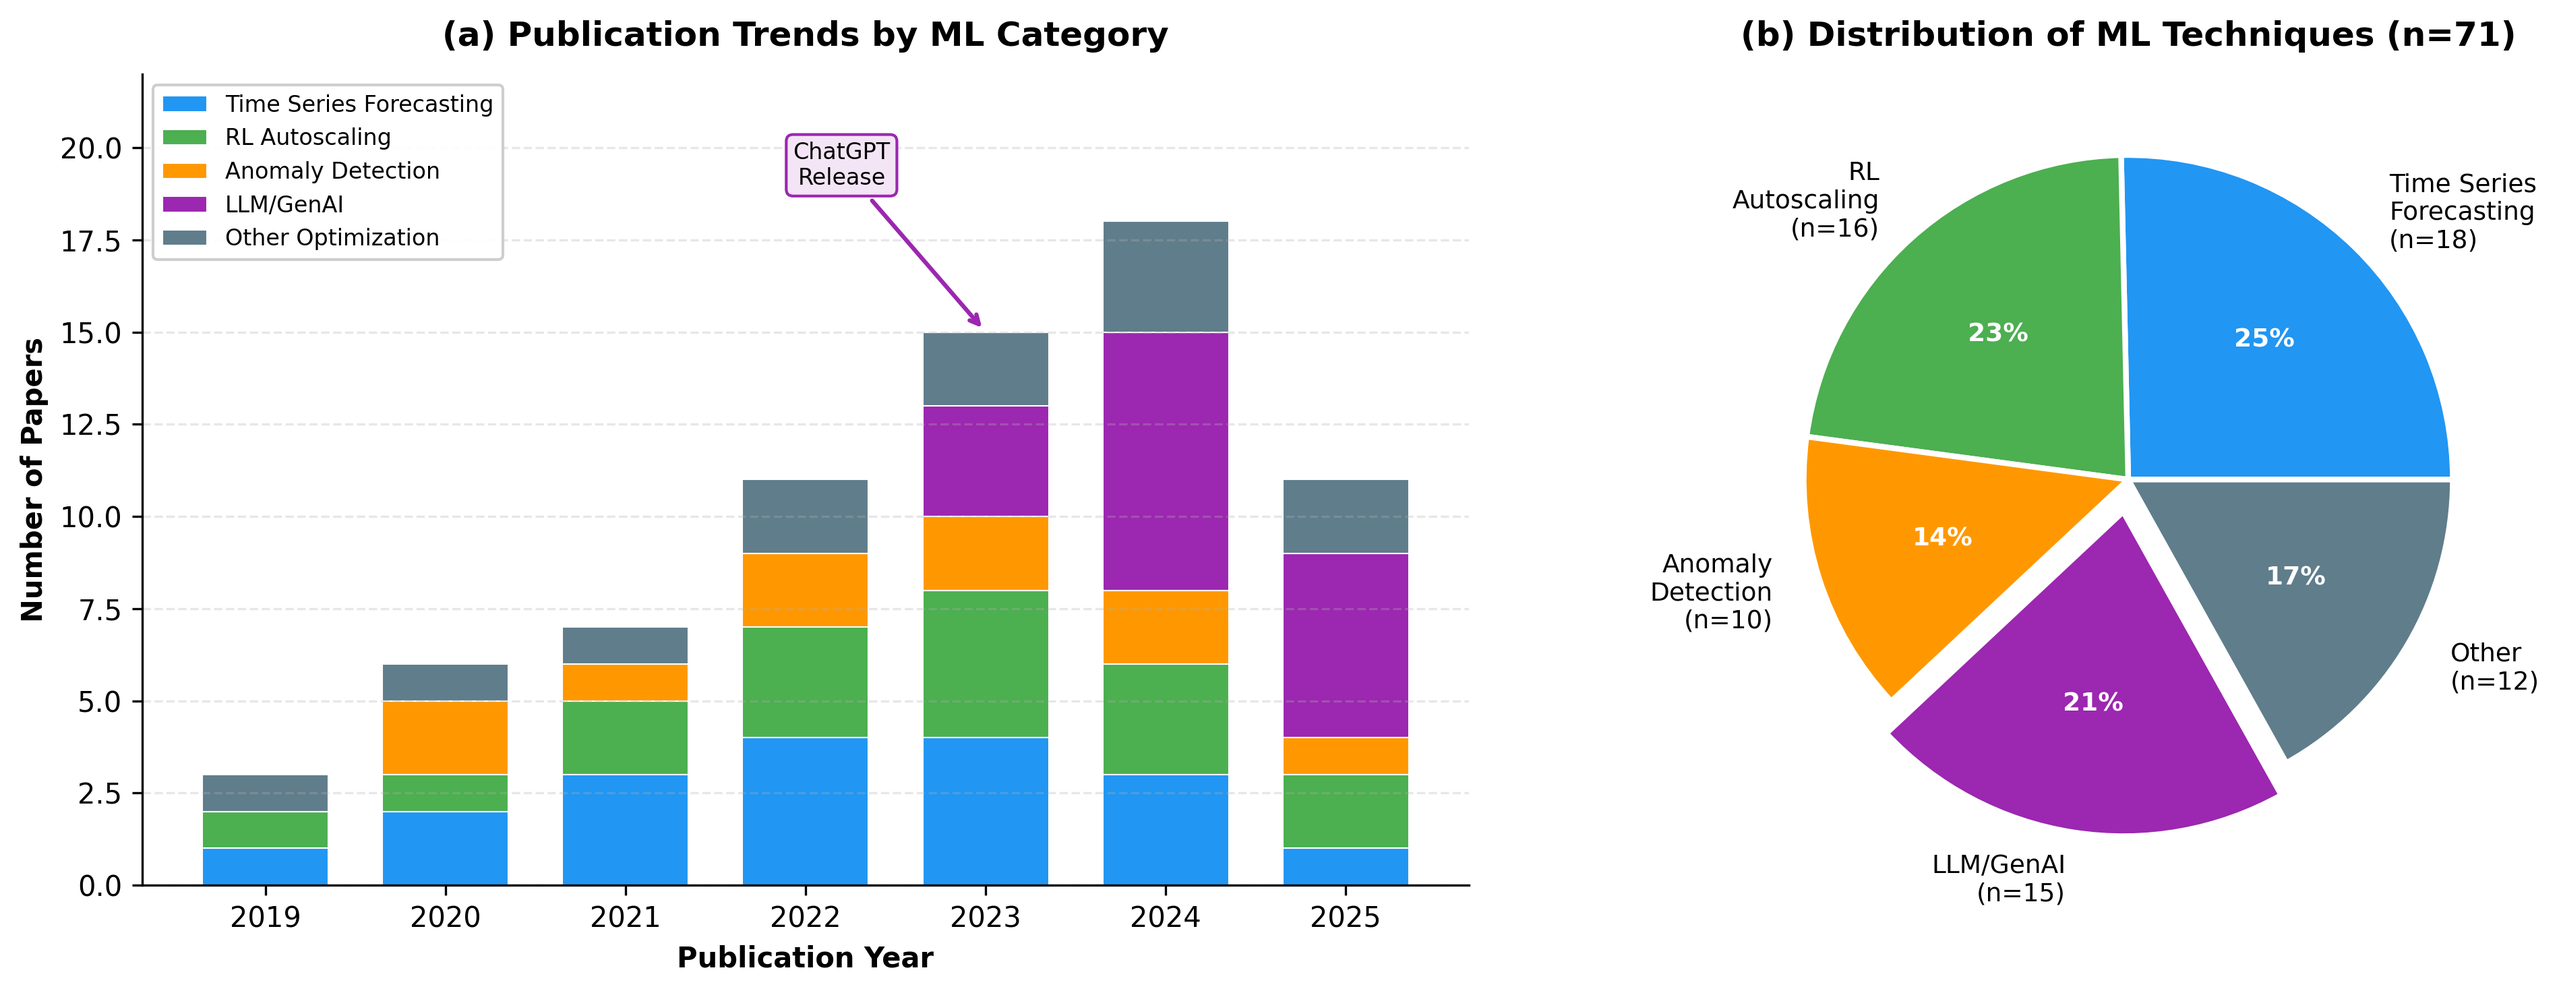
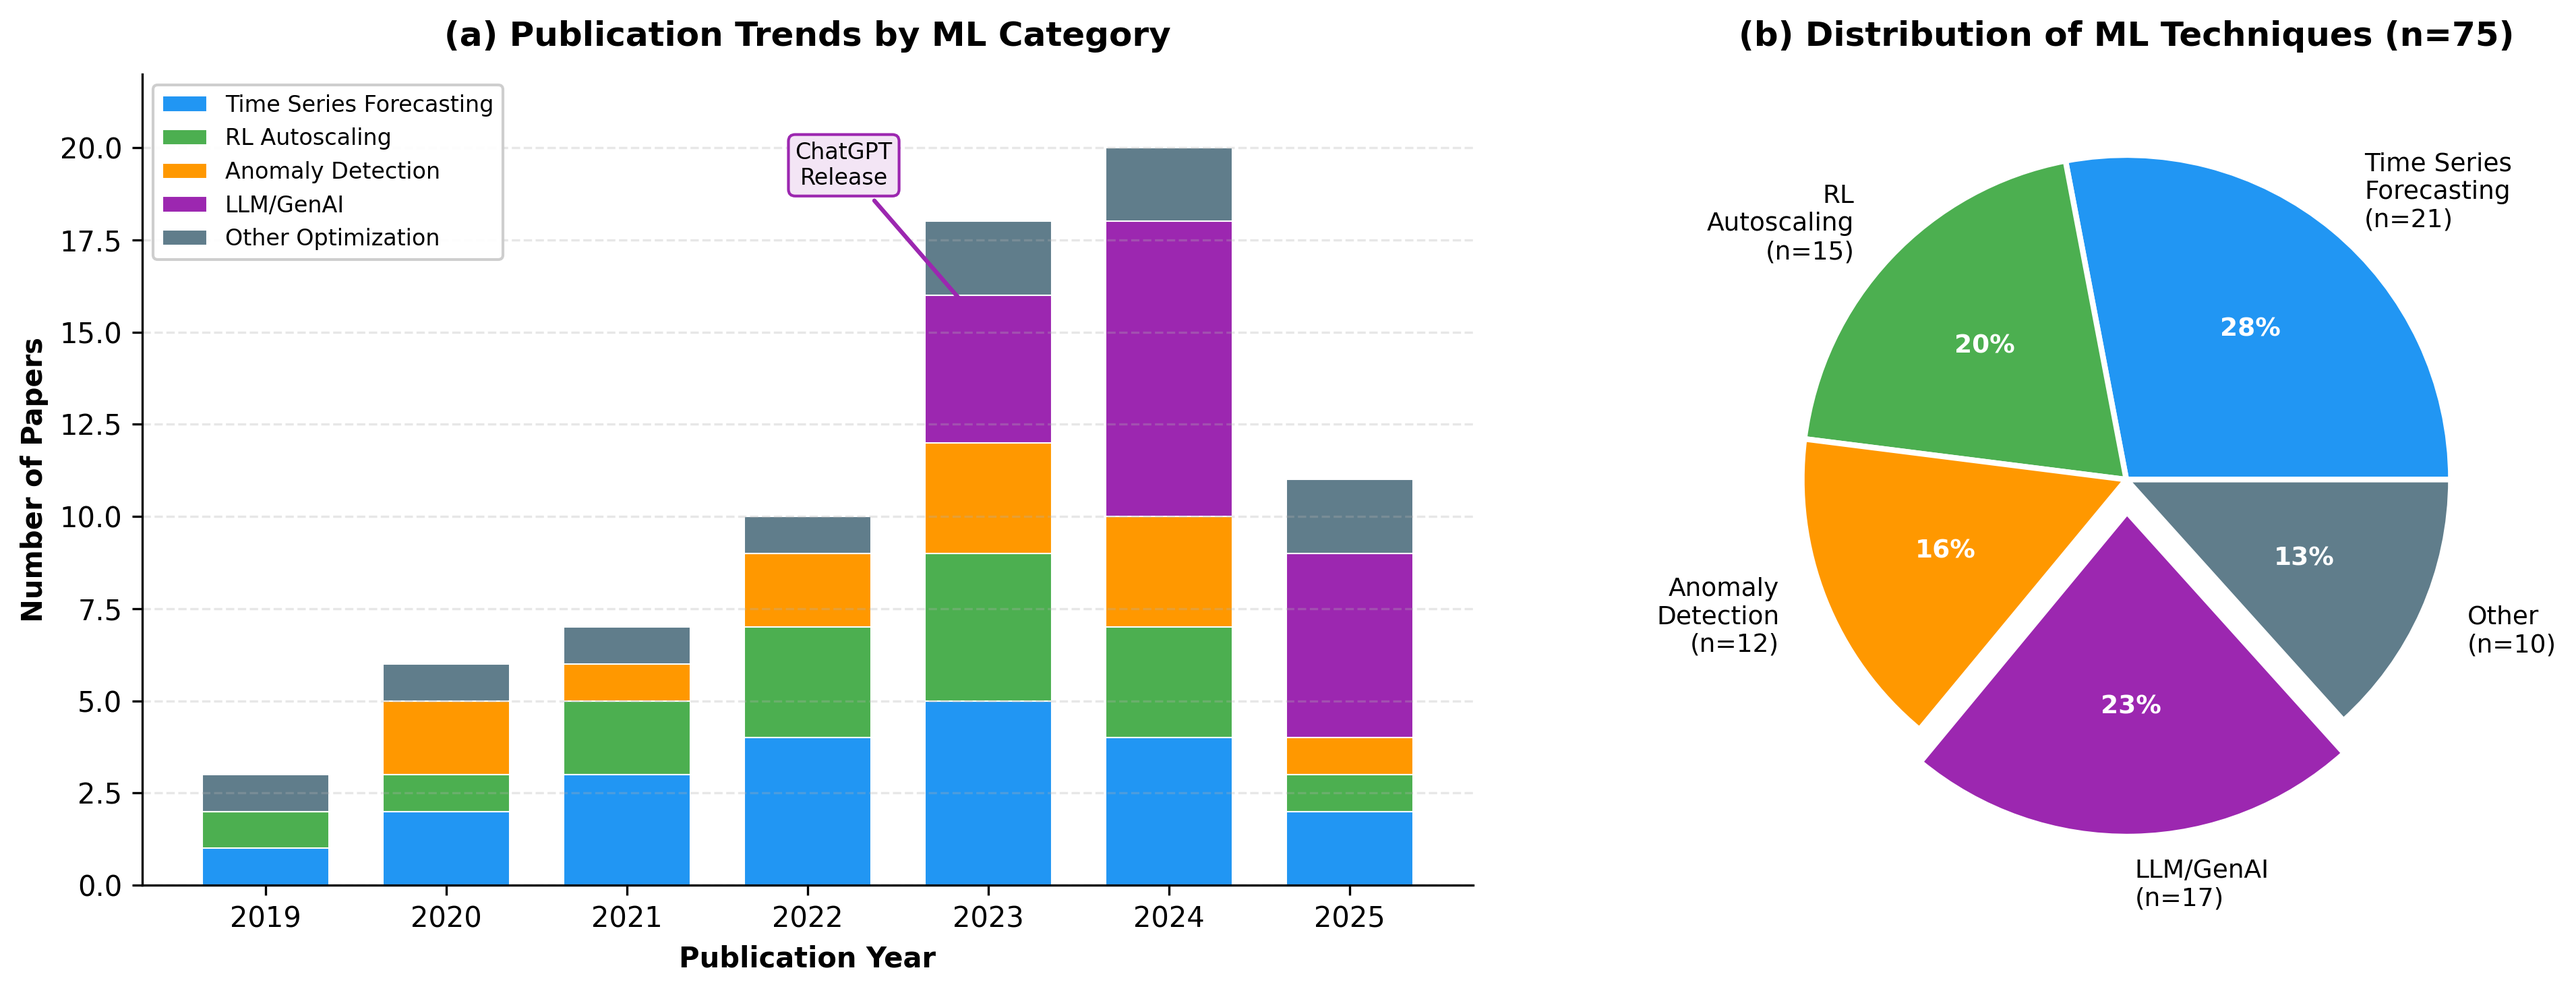
fix: align figure counts with manuscript Table 2
Updated all figure generation scripts to match the paper's
reported numbers. Key changes: taxonomy counts corrected,
publication trends now sum to n=75, DScaler fixed to 19.9%,
LLM timeline updated to 76%.

diff --git a/template/figures/generate_taxonomy_detailed.py b/template/figures/generate_taxonomy_detailed.py
@@ -86,14 +86,14 @@ inform_techniques = [
     ('Allocation & Tagging', 8.8, 5),
 ]
 
-ax.text(4, 10.5, 'Cost Forecasting (18)', ha='center', fontsize=9, fontweight='bold', color=colors['inform_dark'])
+ax.text(4, 10.5, 'Cost Forecasting (21)', ha='center', fontsize=9, fontweight='bold', color=colors['inform_dark'])
 draw_technique_pill(3.2, 9.9, 'TFT', colors['inform_dark'])
 draw_technique_pill(4, 9.9, 'LSTM', colors['inform_dark'])
 draw_technique_pill(4.8, 9.9, 'DeepAR', colors['inform_dark'])
 draw_technique_pill(3.5, 9.4, 'XGBoost', colors['inform_dark'])
 draw_technique_pill(4.5, 9.4, 'Prophet', colors['inform_dark'])
 
-ax.text(4, 8.7, 'Anomaly Detection (10)', ha='center', fontsize=9, fontweight='bold', color=colors['inform_dark'])
+ax.text(4, 8.7, 'Anomaly Detection (12)', ha='center', fontsize=9, fontweight='bold', color=colors['inform_dark'])
 draw_technique_pill(3.3, 8.2, 'Isolation Forest', colors['inform_dark'])
 draw_technique_pill(4.7, 8.2, 'VAE', colors['inform_dark'])
 
@@ -102,11 +102,11 @@ draw_technique_pill(4.7, 8.2, 'VAE', colors['inform_dark'])
 # =============================================================================
 draw_phase_box(6.5, 8, 4, 3.5, 'OPTIMIZE', colors['optimize'], colors['optimize_dark'], [])
 
-ax.text(8.5, 10.5, 'Workload Optimization (14)', ha='center', fontsize=9, fontweight='bold', color=colors['optimize_dark'])
+ax.text(8.5, 10.5, 'Workload Optimization (17)', ha='center', fontsize=9, fontweight='bold', color=colors['optimize_dark'])
 draw_technique_pill(7.8, 9.9, 'Rightsizing', colors['optimize_dark'])
 draw_technique_pill(9.2, 9.9, 'Scheduling', colors['optimize_dark'])
 
-ax.text(8.5, 9.2, 'Rate Optimization (7)', ha='center', fontsize=9, fontweight='bold', color=colors['optimize_dark'])
+ax.text(8.5, 9.2, 'Rate Optimization (9)', ha='center', fontsize=9, fontweight='bold', color=colors['optimize_dark'])
 draw_technique_pill(7.6, 8.7, 'RI Planning', colors['optimize_dark'])
 draw_technique_pill(9.4, 8.7, 'Spot Bidding', colors['optimize_dark'])
 
@@ -117,18 +117,18 @@ ax.text(8.5, 8.2, 'Architecture (4)', ha='center', fontsize=9, fontweight='bold'
 # =============================================================================
 draw_phase_box(11, 8, 4, 3.5, 'OPERATE', colors['operate'], colors['operate_dark'], [])
 
-ax.text(13, 10.5, 'RL Automation (16)', ha='center', fontsize=9, fontweight='bold', color=colors['operate_dark'])
+ax.text(13, 10.5, 'RL Automation (15)', ha='center', fontsize=9, fontweight='bold', color=colors['operate_dark'])
 draw_technique_pill(12.2, 9.9, 'DQN', colors['operate_dark'])
 draw_technique_pill(13, 9.9, 'PPO', colors['operate_dark'])
 draw_technique_pill(13.8, 9.9, 'A2C', colors['operate_dark'])
 
-ax.text(13, 9.0, 'Policy & Governance (4)', ha='center', fontsize=9, fontweight='bold', color=colors['operate_dark'])
+ax.text(13, 9.0, 'Policy & Governance (5)', ha='center', fontsize=9, fontweight='bold', color=colors['operate_dark'])
 draw_technique_pill(13, 8.5, 'Guardrails', colors['operate_dark'])
 
 # =============================================================================
 # LLM/GenAI Layer (Spanning all phases)
 # =============================================================================
-draw_phase_box(2, 4, 13, 3, 'LLM / GENERATIVE AI (15 papers)', colors['llm'], colors['llm_dark'], [])
+draw_phase_box(2, 4, 13, 3, 'LLM / GENERATIVE AI (17 papers)', colors['llm'], colors['llm_dark'], [])
 
 llm_categories = [
     ('Inference Cost\nOptimization', 3.5, ['FrugalGPT', 'RouteLLM', 'LLMLingua']),

diff --git a/template/figures/generate_publication_trends.py b/template/figures/generate_publication_trends.py
@@ -10,12 +10,12 @@ import numpy as np
 # Data based on literature review (2019-2025)
 years = ['2019', '2020', '2021', '2022', '2023', '2024', '2025']
 
-# Papers by category per year
-forecasting = [1, 2, 3, 4, 4, 3, 1]      # 18 total
-rl_autoscaling = [1, 1, 2, 3, 4, 3, 2]   # 16 total
-anomaly = [0, 2, 1, 2, 2, 2, 1]          # 10 total
-llm_finops = [0, 0, 0, 0, 3, 7, 5]       # 15 total (post-ChatGPT boom)
-other = [1, 1, 1, 2, 2, 3, 2]            # 12 total (general optimization)
+# Papers by category per year (primary technique assignment, no overlap)
+forecasting = [1, 2, 3, 4, 5, 4, 2]      # 21 total
+rl_autoscaling = [1, 1, 2, 3, 4, 3, 1]   # 15 total
+anomaly = [0, 2, 1, 2, 3, 3, 1]          # 12 total
+llm_finops = [0, 0, 0, 0, 4, 8, 5]       # 17 total (post-ChatGPT boom, 76% in 2024-25)
+other = [1, 1, 1, 1, 2, 2, 2]            # 10 total (rate optimization, architecture, etc.)
 
 # Set up the figure with professional styling
 fig, (ax1, ax2) = plt.subplots(1, 2, figsize=(14, 5), dpi=300)
@@ -61,8 +61,8 @@ ax1.annotate('ChatGPT\nRelease', xy=(4, 15), xytext=(3.2, 19),
 
 # Right plot: Pie chart showing overall distribution
 totals = [sum(forecasting), sum(rl_autoscaling), sum(anomaly), sum(llm_finops), sum(other)]
-labels = ['Time Series\nForecasting\n(n=18)', 'RL\nAutoscaling\n(n=16)', 'Anomaly\nDetection\n(n=10)',
-          'LLM/GenAI\n(n=15)', 'Other\n(n=12)']
+labels = ['Time Series\nForecasting\n(n=21)', 'RL\nAutoscaling\n(n=15)', 'Anomaly\nDetection\n(n=12)',
+          'LLM/GenAI\n(n=17)', 'Other\n(n=10)']
 explode = (0, 0, 0, 0.1, 0)  # Highlight LLM as emerging
 
 wedges, texts, autotexts = ax2.pie(totals, explode=explode, labels=labels, autopct='%1.0f%%',
@@ -72,7 +72,7 @@ wedges, texts, autotexts = ax2.pie(totals, explode=explode, labels=labels, autop
                                    wedgeprops=dict(edgecolor='white', linewidth=2),
                                    textprops={'fontsize': 9})
 
-ax2.set_title('(b) Distribution of ML Techniques (n=71)', fontweight='bold', pad=10)
+ax2.set_title('(b) Distribution of ML Techniques (n=75)', fontweight='bold', pad=10)
 
 # Make percentage text bold
 for autotext in autotexts:

diff --git a/template/figures/generate_llm_timeline.py b/template/figures/generate_llm_timeline.py
@@ -80,7 +80,7 @@ insight_box = FancyBboxPatch((0.3, 0.3), 13.4, 0.8,
                               boxstyle="round,pad=0.02,rounding_size=0.1",
                               facecolor='#FFF3E0', edgecolor='#FF9800', linewidth=1.5)
 ax.add_patch(insight_box)
-ax.text(7, 0.7, 'Key Finding: 73% of LLM-FinOps papers published 2024-2025, indicating rapid but nascent field',
+ax.text(7, 0.7, 'Key Finding: 76% of LLM-FinOps papers published 2024-2025, indicating rapid but nascent field',
         ha='center', va='center', fontsize=9, fontweight='bold', color='#E65100')
 
 plt.tight_layout()

diff --git a/template/figures/generate_performance_comparison.py b/template/figures/generate_performance_comparison.py
@@ -25,7 +25,7 @@ techniques_cost = [
     'FrugalGPT (LLM Cascade)'
 ]
 
-cost_reduction = [44, 40, 35, 32, 26, 25, 65, 98]  # percentages
+cost_reduction = [44, 40, 35, 19.9, 26, 25, 65, 98]  # percentages
 colors_cost = ['#4CAF50', '#4CAF50', '#4CAF50', '#4CAF50', '#4CAF50',
                '#2196F3', '#2196F3', '#9C27B0']
 
